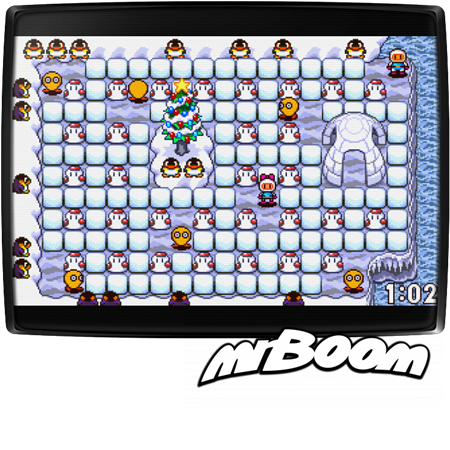
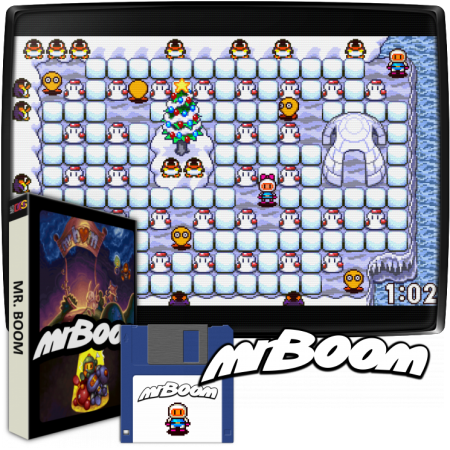
chore(ports): update screenshot mixv2recalbox

Changed region(s): [[0.0, 0.4044, 0.5289, 0.9956]]

diff --git a/TESTING.md b/TESTING.md
@@ -127,6 +127,7 @@ Pour les pending features, elles ne seront activées que si les beta testeurs le
 - [ ] Check fix bios md5 for DMG_BOOT.bin (nintendo gb) and CGB_BOOT.bin (nintendo gbc)
 - [ ] Bump Np2kai => Test game for PC9801
 - [ ] Vérifier que le screenshot fonctionne sur toutes les boards
+- [ ] Check update screenshot mixv2recalbox of ports (2048, Dinothawr, Mrboom, Quake, Rick Dangerous)
 
 
 ## Technique

diff --git a/CHANGELOG.md b/CHANGELOG.md
@@ -175,6 +175,7 @@ All notable changes to this project will be documented in this file.
 - Bump Np2kai
 - Make raspi2png works with rpi4 KMS overlay (#1587)
 - Enable vibration for pcsx_rearmed libretro core (#725)
+- Update screenshot mixv2recalbox of ports (2048, Dinothawr, Mrboom, Quake, Rick Dangerous)
 
 
 ## [7.1.1-Reloaded]
